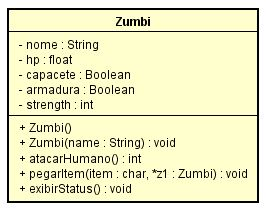
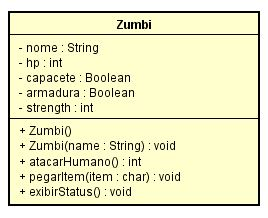
Projeto e diagrama UML atualizados

Changed region(s): [[0.0, 0.0286, 0.9925, 0.9714], [0.5714, 0.6286, 0.6617, 0.7143], [0.8421, 0.8, 0.9323, 0.8571]]

diff --git a/Zumbi.cpp b/Zumbi.cpp
@@ -7,7 +7,7 @@
 #define vh 4000
 
 Zumbi::Zumbi(){
-	this->nome="N sei oq coloco aqui";
+	this->nome="Sem nome";
     this->hp=5000;
     this->armadura=false;
     this->capacete=false;
@@ -22,7 +22,7 @@ Zumbi::Zumbi(const string &name){
     this->strength=300;
 }
 
-void Zumbi::exibirStatus(){
+void Zumbi::exibirStatus() const{
     cout << "Pontos de vida: " << hp;
     cout << "\nForca: " << strength;
     if (armadura)
@@ -43,32 +43,6 @@ void Zumbi::setA(){
 void Zumbi::setC(){
 	capacete=true;
     hp=hp+200;
-}
-
-void Zumbi::setName(string name){
-	this->nome=name;
-}
-
-void Zumbi::setHealth(float x){
-	if (x>=0)
-	this->hp=x;
-}
-
-void Zumbi::setStrength(int s){
-    if (s>0)
-    strength=s;
-}
-
-float Zumbi::getHealth(){
-	return hp;
-}
-
-string Zumbi::getName(){
-	return nome;
-}
-
-int Zumbi::getStrength(){
-	return strength;
 }
 
 void Zumbi::pegarItem(char item){
@@ -93,16 +67,13 @@ void Zumbi::pegarItem(char item){
 }
 
 int Zumbi::atacarHumano(){
-	int VidaH=vh, Sh=200, Sz, maismenos, atk, total;
-	float hp;
+	int VidaH=vh, VidaZ=hp, Sh=200, Sz=strength, maismenos, atk, total;
 	char opt;
 	srand(time(NULL));
-	hp=getHealth();
-    Sz=getStrength();
 	do{
 		system("cls");
 		cout << "HP humano: " << VidaH << "    ";
-		cout << "HP " << getName() << ": " << hp;
+		cout << "HP " << nome << ": " << VidaZ;
 		cout << "\n1- Ataque normal;";
 		cout << "\n2- Mordida (custa pontos de vida);";
         cout << "\n3- Fugir; \n\n";
@@ -119,15 +90,15 @@ int Zumbi::atacarHumano(){
 					VidaH=VidaH-total;
 				}
 				system("cls");
-				cout << getName() << " usou Ataque normal, causando " << total << " de dano.";
+				cout << nome << " usou Ataque normal, causando " << total << " de dano.";
 				do{
 				cin.get();
 			    }while(cin.get()!='\n');
 				break;
 			case '2':
-				hp=hp-200;
-                if (hp<0){
-                    hp=0;
+				VidaZ=VidaZ-200;
+                if (VidaZ<0){
+                    VidaZ=0;
                 }                
 				maismenos=rand() % 2;
 				atk=rand() % 201;
@@ -139,7 +110,7 @@ int Zumbi::atacarHumano(){
 					VidaH=VidaH-total;
 				}
 				system("cls");
-				cout << getName() << " usou Mordida, causando " << total << " de dano e recebendo 200 de dano colateral";
+				cout << nome << " usou Mordida, causando " << total << " de dano e recebendo 200 de dano colateral";
 				do{
 				cin.get();
 			    }while(cin.get()!='\n');
@@ -152,23 +123,23 @@ int Zumbi::atacarHumano(){
 				atk=rand() % 101;
 				if (maismenos==1){
 					total=Sh+atk;
-					hp=hp-total;
-					if (hp<0){
-						hp=0;
+					VidaZ=VidaZ-total;
+					if (VidaZ<0){
+						VidaZ=0;
 					}
 				}else{
 					total=Sh-atk;
-					hp=hp-total;
-					if (hp<0){
-						hp=0;
+					VidaZ=VidaZ-total;
+					if (VidaZ<0){
+						VidaZ=0;
 					}
 				}
 				cout << "Humano usou Ataque normal, causando " << total << " de dano.";
 				do{
 				cin.get();
 			    }while(cin.get()!='\n');
-	}while((hp>0) && (VidaH>0));
-	if (hp==0){
+	}while((VidaZ>0) && (VidaH>0));
+	if (VidaZ==0){
     system("cls");
 	return 0;
 	}else{

diff --git a/Mapa.cpp b/Mapa.cpp
@@ -7,8 +7,7 @@
 
 #define humanos 8
 
-Mapa::Mapa(int tamanho){
-	this->tam=tamanho;
+Mapa::Mapa(){
 }
 
 void Mapa::iniciarMapa(){
@@ -140,11 +139,11 @@ void Mapa::iniciarMapa3(){
 	}
 }
 
-void Mapa::exibirMapa(){
+void Mapa::exibirMapa() const{
 	int i, j;
 	HANDLE console = GetStdHandle(STD_OUTPUT_HANDLE);
-	for (i=0;i<=(tam-1);i++){
-		for (j=0;j<=(tam-1);j++){
+	for (i=0;i<=29;i++){
+		for (j=0;j<=29;j++){
 			if(mapa[i][j]=='Z'){
 				SetConsoleTextAttribute(console,12);
 				cout << " " << mapa[i][j];
@@ -195,8 +194,8 @@ void Mapa::andarMapa(char d, Zumbi *z1, int *c){
 
 void Mapa::procurarMapa(int *l, int *c){
 	int i, j;
-	for (i=0;i<=(tam-1);i++){
-		for (j=0;j<=(tam-1);j++){
+	for (i=0;i<=29;i++){
+		for (j=0;j<=29;j++){
 			if(mapa[i][j]=='Z'){
 				*l=i;
 				*c=j;

diff --git a/Zumbi.h b/Zumbi.h
@@ -3,25 +3,16 @@
 using namespace std;
 
 class Zumbi{
-    public:
+	public:
         Zumbi();
 		Zumbi(const string &);
-		void setName(string);
-		void setSpeed(int);
-		void setHealth(float);
-        void setStrength(int);
-		string getName();
-		int getSpeed();
-        int getStrength();
-		float getHealth();
-		void setC();
-		void setA();
+        void exibirStatus() const;        
 		int atacarHumano();
 		void pegarItem(char);
-        void exibirStatus();        
 	private:
+		void setC();
+		void setA();      
 		string nome;
-		int strength;
-		float hp;
+		int strength, hp;
 		bool capacete, armadura;
 };

diff --git a/Mapa.h b/Mapa.h
@@ -1,16 +1,15 @@
 #include "Zumbi.h"
 class Mapa{
 	public:
-		Mapa(int);
+		Mapa();
 		void iniciarMapa();
+		void exibirMapa() const;
+        void andarMapa(char, Zumbi* ,int*);
+	private:
+        void verificarMapa(char, int, int, int*, int*, Zumbi*, int*);
+        void procurarMapa(int*, int*); 
 		void iniciarMapa2();
 		void iniciarMapa3();
-		void exibirMapa();
-        void andarMapa(char, Zumbi*,int*);
-        void verificarMapa(char, int, int, int*, int*, Zumbi*, int*);
-        void procurarMapa(int*, int*);
-    private:
-    	int tam;
 		char mapa[30][30];	
 };
 

diff --git a/main.cpp b/main.cpp
@@ -18,7 +18,7 @@ int main(){
 	
 	Zumbi z1(nome);
 	
-    Mapa m1(30);
+    Mapa m1;
 	m1.iniciarMapa();
 
 	int op;
